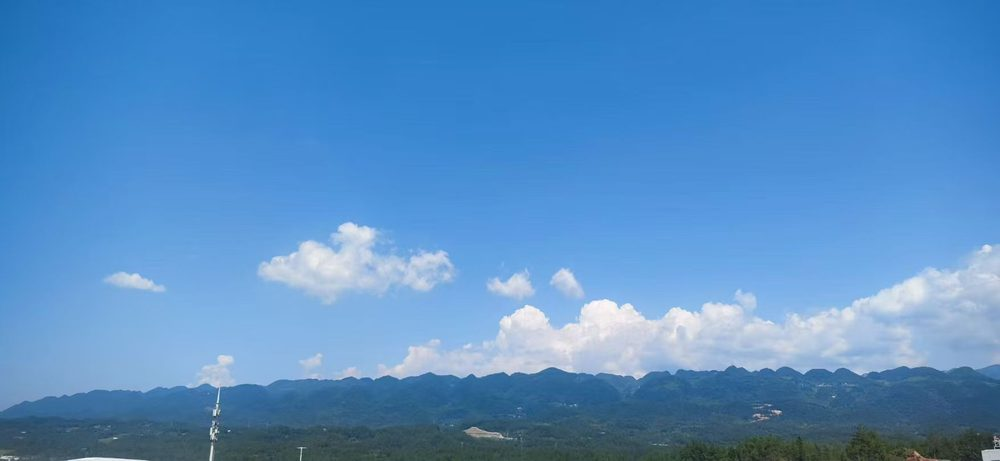
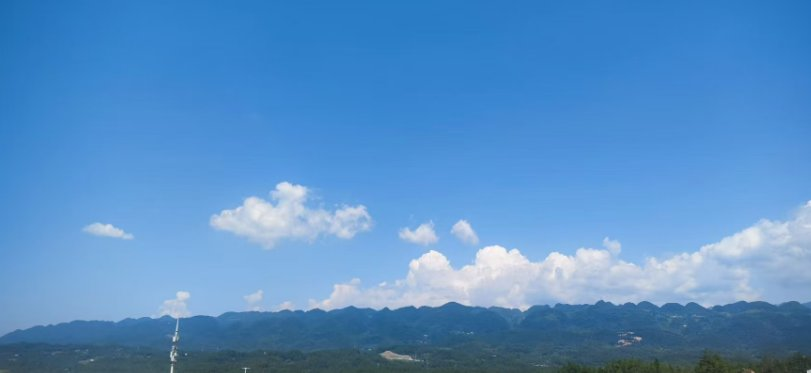
v9(f): 桐凤斋头像换帝鳳桐书法 · 迟浩亮头像/DM/朋友圈头像全换蓝天下山(旧AI伞图删除) · 修复v9e漏改的img引用

diff --git a/data.js b/data.js
@@ -69,7 +69,7 @@ window.HLJQ_DATA = (function () {
       line: "二十三岁，原名王范家传，学西北西河铁师法，主将王灵官。四川人，现于杭州跑滴滴谋生。",
     },
     "迟浩亮": {
-      alias: [], tag: "同道 · 奇门风水", age: 22, img: IMG + "chihaoliang.jpg",
+      alias: [], tag: "同道 · 奇门风水", age: 22, img: IMG + "chihaoliang-meizhao.jpg",
       wechat: "qimen_chi",
       birthday: { stemBranch: "甲申", year: 2004, month: 6, day: 7, zodiac: "猴" },
       line: "二十二岁，辽宁大连人，在苏州经营奇门风水工作室。只学奇门遁甲与风水堪舆，不学道法科仪。",
@@ -306,7 +306,7 @@ window.HLJQ_DATA = (function () {
         { from: "我", text: "（看图）威严。雷霆一道，正克邪法。" },
         { from: "西河老贾", text: "你号令锁，我雷霆锤。锁锤合一，叛师也扛不住。" },
       ], photo: IMG + "wang-lingguan.jpg" },
-    { with: "迟哥", name: "奇门迟", img: IMG + "chihaoliang.jpg",
+    { with: "迟哥", name: "奇门迟", img: IMG + "chihaoliang-meizhao.jpg",
       msgs: [
         { from: "奇门迟", text: "南阳为地盘、受害时为时辰，我排过了。邪师法坛在铜仁方向，和路遥老家同域。我苏州开工作室。" },
         { from: "我", text: "能再缩么？" },
@@ -333,7 +333,7 @@ window.HLJQ_DATA = (function () {
       text: "今晨在桐乡的山里开面，朱砂落了七八笔，将帅开了面，邪法就遮不住。开面符的难不在笔，在定。" },
     { who: "我", img: IMG + "wxliuxiyi.jpg", photo: IMG + "liuxiyi-tan.jpg", time: "4月1日 14:10",
       text: "坛布挂好了。今天我才知道——法衣不是穿的，是撑的。撑起来，才压得住。" },
-    { who: "奇门迟", img: IMG + "chihaoliang.jpg", photo: IMG + "chihaoliang-meizhao.jpg", time: "3月25日 00:30",
+    { who: "奇门迟", img: IMG + "chihaoliang-meizhao.jpg", photo: IMG + "chihaoliang-meizhao.jpg", time: "3月25日 00:30",
       text: "梅沼的远山，今早我站在高处拍了下来。这片地气被人为改了——众水朝堂本是聚气格局，若被人散了风、放出煞，是要破局的前兆。先复原，再破坛。" },
     { who: "灵宝千寻", img: IMG + "wxqianxun.jpg", time: "3月21日 16:05",
       text: "灵宝度亡不是刀，是药。缺这味，坛场就只剩杀伐。" },
